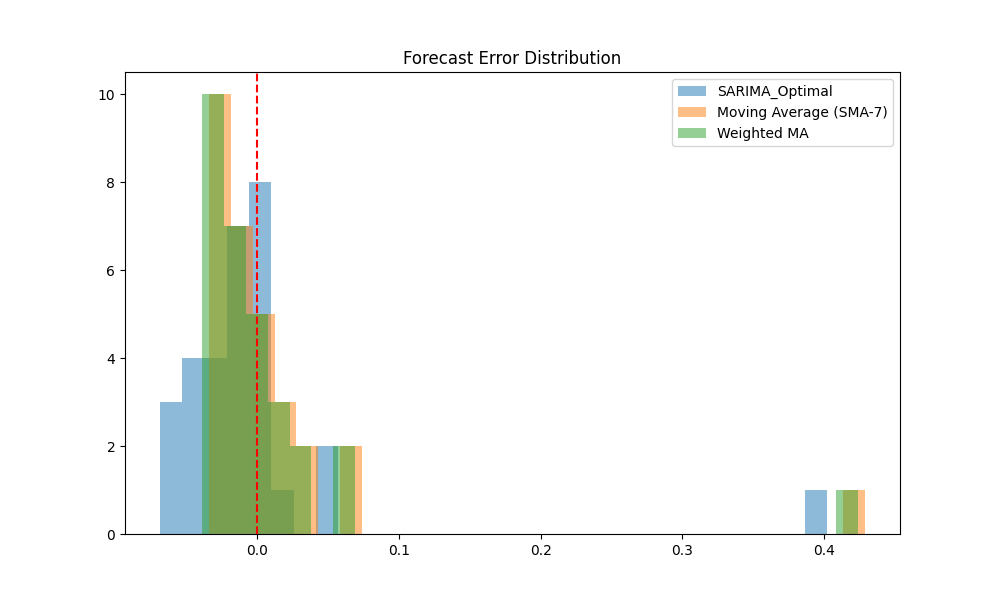
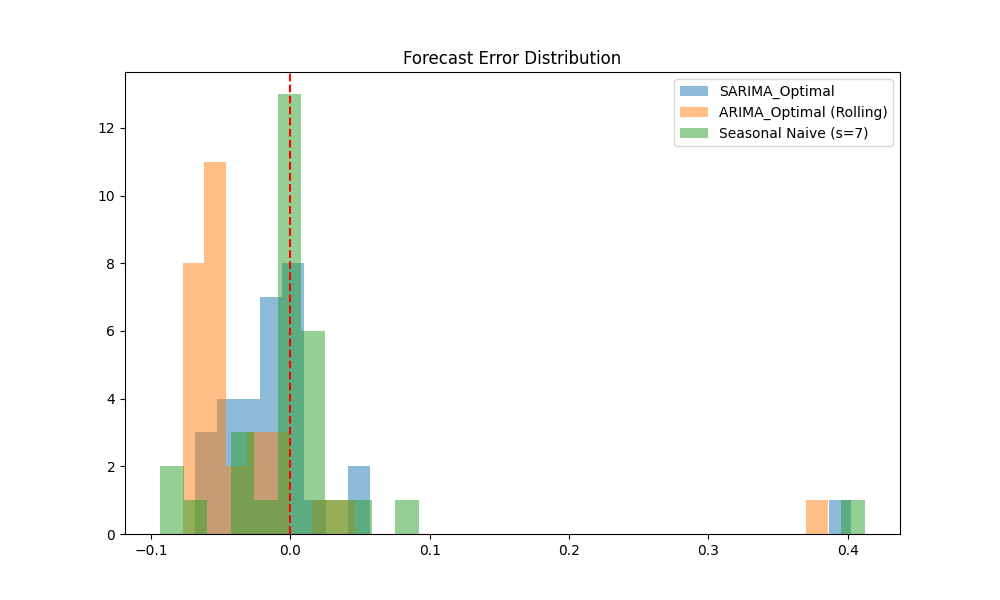
updated models, metrics and cleaned scratch files

diff --git a/stat-models/evaluate_benchmarks.py b/stat-models/evaluate_benchmarks.py
@@ -61,38 +61,68 @@ def main():
     
     print(f"Formatted report saved to {txt_path}")
     
-    # --- VISUALIZATION: Actual vs Top 3 Models ---
     import matplotlib.pyplot as plt
+    if not os.path.exists('scratch/plots'):
+        os.makedirs('scratch/plots')
+
+    # ---------------------------------------------------------
+    # --- VISUALIZATION 1: Basic Models vs Actual ---
+    # ---------------------------------------------------------
     plt.figure(figsize=(15, 7))
-    plt.plot(actual[-50:], label='Actual', color='black', linewidth=2, marker='o') # Last 50 days for clarity
+    plt.plot(actual[-30:], label='Actual', color='black', linewidth=2, marker='o') # Last 50 days for clarity
     
-    # Plot top 3 models
-    top_models = results_df.head(3)['Model'].tolist()
-    colors = ['#1f77b4', '#ff7f0e', '#2ca02c']
+    basic_models = ['Seasonal Naive (s=7)', 'Moving Average (SMA-7)', 'Weighted MA', 'AR(2)', 'MA(2)', 'ARMA(2,2)']
+    colors1 = ['#1f77b4', '#ff7f0e', '#2ca02c', '#d62728', '#9467bd', '#8c564b']
     
-    for i, model_name in enumerate(top_models):
-        forecast = np.array(data[model_name])
-        plt.plot(forecast[-50:], label=model_name, linestyle='--', color=colors[i])
-        
-    plt.title("Product Return Rate Forecasting: Top 3 Models vs Actual (Last 50 Days)")
+    for i, model_name in enumerate(basic_models):
+        if model_name in data:
+            forecast = np.array(data[model_name])
+            plt.plot(forecast[-30:], label=model_name, linestyle='--', color=colors1[i % len(colors1)])
+            
+    plt.title("Product Return Rate Forecasting: Basic Models vs Actual (Last 30 Days)")
+    plt.xlabel("Days in Test Set")
+    plt.ylabel("Return Rate")
+    plt.legend(bbox_to_anchor=(1.05, 1), loc='upper left')
+    plt.grid(True, alpha=0.3)
+    plt.tight_layout()
+    
+    plot1_path = 'scratch/plots/forecast_comparison_basic.png'
+    plt.savefig(plot1_path)
+    plt.close()
+    print(f"Basic Comparison plot saved to {plot1_path}")
+
+    # ---------------------------------------------------------
+    # --- VISUALIZATION 2: Advanced Models (ARIMA/SARIMA) vs Actual ---
+    # ---------------------------------------------------------
+    plt.figure(figsize=(15, 7))
+    plt.plot(actual[-30:], label='Actual', color='black', linewidth=2, marker='o') # Last 30 days for clarity
+    
+    advanced_models = ['ARIMA_Optimal (Rolling)', 'SARIMA_Optimal']
+    colors2 = ['#d62728', '#1f77b4'] # Red and Blue
+    
+    for i, model_name in enumerate(advanced_models):
+        if model_name in data:
+            forecast = np.array(data[model_name])
+            plt.plot(forecast[-30:], label=model_name, linestyle='--', color=colors2[i % len(colors2)])
+            
+    plt.title("Product Return Rate Forecasting: ARIMA & SARIMA vs Actual (Last 30 Days)")
     plt.xlabel("Days in Test Set")
     plt.ylabel("Return Rate")
     plt.legend()
     plt.grid(True, alpha=0.3)
     
-    if not os.path.exists('scratch/plots'):
-        os.makedirs('scratch/plots')
-    
-    plot_path = 'scratch/plots/forecast_comparison_top3.png'
-    plt.savefig(plot_path)
+    plot2_path = 'scratch/plots/forecast_comparison_advanced.png'
+    plt.savefig(plot2_path)
     plt.close()
-    print(f"Comparison plot saved to {plot_path}")
-    
+    print(f"Advanced Comparison plot saved to {plot2_path}")
+
     # --- VISUALIZATION: Error Distribution ---
     plt.figure(figsize=(10, 6))
-    for i, model_name in enumerate(top_models):
-        error = actual - np.array(data[model_name])
-        plt.hist(error, bins=30, alpha=0.5, label=model_name)
+    plot_models = ['SARIMA_Optimal', 'ARIMA_Optimal (Rolling)', 'Seasonal Naive (s=7)']
+    for i, model_name in enumerate(plot_models):
+        if model_name in data:
+            error = actual - np.array(data[model_name])
+            plt.hist(error, bins=30, alpha=0.5, label=model_name)
     plt.axvline(0, color='red', linestyle='--')
     plt.title("Forecast Error Distribution")
     plt.legend()

diff --git a/stat-models/models/ar_ma_processes.py b/stat-models/models/ar_ma_processes.py
@@ -1,21 +1,38 @@
 import pandas as pd
 from statsmodels.tsa.ar_model import AutoReg
 from statsmodels.tsa.arima.model import ARIMA
+import warnings
 
-def run_ar_forecast(train, test_len, lags=2):
-    """Autoregressive (AR) model."""
-    model = AutoReg(train, lags=lags).fit()
-    forecast = model.predict(start=len(train), end=len(train)+test_len-1)
-    return pd.Series(forecast.values)
+def run_ar_forecast(train, test, lags=2):
+    """Autoregressive (AR) model with rolling window."""
+    history = list(train)
+    predictions = []
+    for t in range(len(test)):
+        model = AutoReg(history, lags=lags).fit()
+        predictions.append(model.predict(start=len(history), end=len(history))[0])
+        history.append(test.iloc[t])
+    return pd.Series(predictions, index=test.index)
 
-def run_ma_forecast(train, test_len, order=2):
-    """Moving Average (MA) process (via ARIMA 0,0,q)."""
-    model = ARIMA(train, order=(0, 0, order)).fit()
-    forecast = model.forecast(steps=test_len)
-    return pd.Series(forecast.values)
+def run_ma_forecast(train, test, order=2):
+    """Moving Average (MA) process (via ARIMA 0,0,q) with rolling window."""
+    history = list(train)
+    predictions = []
+    with warnings.catch_warnings():
+        warnings.simplefilter("ignore")
+        for t in range(len(test)):
+            model = ARIMA(history, order=(0, 0, order)).fit()
+            predictions.append(model.forecast(steps=1)[0])
+            history.append(test.iloc[t])
+    return pd.Series(predictions, index=test.index)
 
-def run_arma_forecast(train, test_len, order=(2, 2)):
-    """ARMA model."""
-    model = ARIMA(train, order=(order[0], 0, order[1])).fit()
-    forecast = model.forecast(steps=test_len)
-    return pd.Series(forecast.values)
+def run_arma_forecast(train, test, order=(2, 2)):
+    """ARMA model with rolling window."""
+    history = list(train)
+    predictions = []
+    with warnings.catch_warnings():
+        warnings.simplefilter("ignore")
+        for t in range(len(test)):
+            model = ARIMA(history, order=(order[0], 0, order[1])).fit()
+            predictions.append(model.forecast(steps=1)[0])
+            history.append(test.iloc[t])
+    return pd.Series(predictions, index=test.index)

diff --git a/stat-models/models/integrated_models.py b/stat-models/models/integrated_models.py
@@ -1,12 +1,52 @@
 import pandas as pd
+import numpy as np
 from statsmodels.tsa.arima.model import ARIMA
 from statsmodels.tsa.statespace.sarimax import SARIMAX
+from scipy.stats import norm
 
 def run_arima_forecast(train, test_len, order=(2, 1, 2)):
-    """ARIMA model with dynamic order selection."""
+    """ARIMA model with static multi-step forecast."""
     model = ARIMA(train, order=order).fit()
     forecast = model.forecast(steps=test_len)
     return forecast
+
+def run_rolling_arima_forecast(train, test, order=(2, 1, 2), bias_adjustment=True):
+    """
+    Improved ARIMA with Rolling Forecast, Log-Transformation, and Business-Bias Adjustment.
+    """
+    # 1. Log transform to stabilize variance
+    # Add small constant to avoid log(0)
+    history = list(np.log1p(train.values))
+    predictions = []
+    
+    # Costs: Under=100, Over=50. Optimal quantile = 100/(100+50) = 0.667
+    target_quantile = 100 / (100 + 50)
+    z_score = norm.ppf(target_quantile) 
+    
+    for t in range(len(test)):
+        # Fit model on log data
+        model_fit = ARIMA(history, order=order).fit()
+        
+        # Get point forecast and forecast variance
+        forecast_obj = model_fit.get_forecast(steps=1)
+        yhat_log = forecast_obj.predicted_mean[0]
+        yhat_std = np.sqrt(forecast_obj.var_pred_mean[0])
+        
+        # Apply Quantile Shift (Business-Bias) if requested
+        if bias_adjustment:
+            yhat_log_biased = yhat_log + (z_score * yhat_std)
+        else:
+            yhat_log_biased = yhat_log
+            
+        # Back-transform to original scale
+        yhat = np.expm1(yhat_log_biased)
+        
+        predictions.append(yhat)
+        
+        # Update history with log of actual value
+        history.append(np.log1p(test.iloc[t]))
+        
+    return pd.Series(predictions, index=test.index)
 
 def run_sarima_forecast(train, test_len, order=(1, 1, 1), s_order=(1, 1, 1, 7)):
     """SARIMA model with dynamic seasonal order."""

diff --git a/stat-models/models/moving_averages.py b/stat-models/models/moving_averages.py
@@ -1,13 +1,25 @@
 import pandas as pd
 import numpy as np
 
-def run_sma_forecast(train, test_len, window=7):
-    """Simple Moving Average (SMA) forecast."""
-    sma_val = train.rolling(window).mean().iloc[-1]
-    return pd.Series([sma_val] * test_len)
+def run_sma_forecast(train, test, window=7):
+    """Simple Moving Average (SMA) forecast with rolling window."""
+    history = list(train)
+    predictions = []
+    for t in range(len(test)):
+        sma_val = np.mean(history[-window:])
+        predictions.append(sma_val)
+        history.append(test.iloc[t])
+    return pd.Series(predictions, index=test.index)
 
-def run_wma_forecast(train, test_len, window=7):
-    """Weighted Moving Average (WMA) forecast."""
+def run_wma_forecast(train, test, window=7):
+    """Weighted Moving Average (WMA) forecast with rolling window."""
+    history = list(train)
+    predictions = []
     weights = np.arange(1, window + 1)
-    wma_val = (train.iloc[-window:] * weights).sum() / weights.sum()
-    return pd.Series([wma_val] * test_len)
+    weight_sum = weights.sum()
+    for t in range(len(test)):
+        wma_val = np.sum(np.array(history[-window:]) * weights) / weight_sum
+        predictions.append(wma_val)
+        history.append(test.iloc[t])
+    return pd.Series(predictions, index=test.index)
+

diff --git a/stat-models/models/naive_persistence.py b/stat-models/models/naive_persistence.py
@@ -1,6 +1,17 @@
 import pandas as pd
+import numpy as np
 
-def run_naive_forecast(train, test_len):
-    """Simple persistence model: uses last observed value."""
-    forecast = pd.Series([train.iloc[-1]] * test_len, index=pd.RangeIndex(len(train), len(train)+test_len))
-    return forecast
+def run_naive_forecast(train, test_len, s=7):
+    """
+    Seasonal Naive model: repeats the last observed seasonal cycle.
+    Default s=7 for weekly patterns in daily data.
+    """
+    last_season = train.iloc[-s:].values
+    # Repeat the last season to cover the test length
+    forecast = np.tile(last_season, int(np.ceil(test_len / s)))[:test_len]
+    
+    forecast_series = pd.Series(
+        forecast, 
+        index=pd.RangeIndex(len(train), len(train) + test_len)
+    )
+    return forecast_series

diff --git a/stat-models/run_experiment.py b/stat-models/run_experiment.py
@@ -7,7 +7,7 @@ from core.data_loader import load_and_split_data
 from models.naive_persistence import run_naive_forecast
 from models.moving_averages import run_sma_forecast, run_wma_forecast
 from models.ar_ma_processes import run_ar_forecast, run_ma_forecast, run_arma_forecast
-from models.integrated_models import run_arima_forecast, run_sarima_forecast
+from models.integrated_models import run_arima_forecast, run_sarima_forecast, run_rolling_arima_forecast
 from core.diagnostics import check_stationarity, plot_identification, residual_analysis
 from core.selection import find_best_arima, find_best_sarima
 from statsmodels.tsa.statespace.sarimax import SARIMAX
@@ -34,19 +34,20 @@ def main():
     plot_identification(work_series, "Stationary_Series")
     
     # 3. Model Selection via AIC (Workflow Step 3)
-    best_arima_order = find_best_arima(train, max_p=3, max_q=3, d=d)
+    best_arima_order = find_best_arima(train, max_p=5, max_q=5, d=d)
     best_sarima_params = find_best_sarima(train, max_p=2, max_q=2, d=d, D=1, s=7)
     
     # 4. Running Models
+    print("\nRunning Models (This may take a moment for Rolling ARIMA)...")
     forecasts = {
         'Actual': test.values.tolist(),
-        'Naive Baseline': run_naive_forecast(train, test_len).tolist(),
-        'Moving Average (SMA-7)': run_sma_forecast(train, test_len).tolist(),
-        'Weighted MA': run_wma_forecast(train, test_len).tolist(),
-        'AR(2)': run_ar_forecast(train, test_len).tolist(),
-        'MA(2)': run_ma_forecast(train, test_len).tolist(),
-        'ARMA(2,2)': run_arma_forecast(train, test_len).tolist(),
-        'ARIMA_Optimal': run_arima_forecast(train, test_len, order=best_arima_order).tolist(),
+        'Seasonal Naive (s=7)': run_naive_forecast(train, test_len, s=7).tolist(),
+        'Moving Average (SMA-7)': run_sma_forecast(train, test).tolist(),
+        'Weighted MA': run_wma_forecast(train, test).tolist(),
+        'AR(2)': run_ar_forecast(train, test).tolist(),
+        'MA(2)': run_ma_forecast(train, test).tolist(),
+        'ARMA(2,2)': run_arma_forecast(train, test).tolist(),
+        'ARIMA_Optimal (Rolling)': run_rolling_arima_forecast(train, test, order=best_arima_order).tolist(),
         'SARIMA_Optimal': run_sarima_forecast(train, test_len, order=best_sarima_params[0], s_order=best_sarima_params[1]).tolist()
     }
     

diff --git a/stat-models/core/metrics.py b/stat-models/core/metrics.py
@@ -12,11 +12,16 @@ def calculate_omc(y_true, y_pred):
     return under_cost + over_cost
 
 def calculate_mape(y_true, y_pred):
-    """Mean Absolute Percentage Error"""
+    """
+    Weighted Mean Absolute Percentage Error (WMAPE/WAPE).
+    More robust for return rate forecasting where actuals can be zero or very small.
+    Formula: (sum|y_true - y_pred| / sum|y_true|) * 100
+    """
     y_true, y_pred = np.array(y_true), np.array(y_pred)
-    # Avoid division by zero by adding a small epsilon or filtering
-    mask = y_true != 0
-    return np.mean(np.abs((y_true[mask] - y_pred[mask]) / y_true[mask])) * 100
+    sum_actual = np.sum(np.abs(y_true))
+    if sum_actual == 0:
+        return 0.0 if np.sum(np.abs(y_pred)) == 0 else np.inf
+    return (np.sum(np.abs(y_true - y_pred)) / sum_actual) * 100
 
 def calculate_nmse(y_true, y_pred):
     """Normalized Mean Squared Error (normalized by variance of actuals)"""

diff --git a/stat-models/generate_business_metrics.py b/stat-models/generate_business_metrics.py
@@ -13,12 +13,13 @@ def calculate_business_impact(csv_path='scratch/benchmark_comparison.csv', outpu
     # Load results
     df = pd.read_csv(csv_path)
     
-    # Identify Naive Baseline
-    if 'Naive Baseline' not in df['Model'].values:
-        print("Error: 'Naive Baseline' not found in results for comparison.")
+    # Identify Baseline (using Seasonal Naive as the new standard)
+    baseline_model = 'Seasonal Naive (s=7)'
+    if baseline_model not in df['Model'].values:
+        print(f"Error: '{baseline_model}' not found in results for comparison.")
         return
         
-    baseline_omc = df[df['Model'] == 'Naive Baseline']['OMC (Cost)'].values[0]
+    baseline_omc = df[df['Model'] == baseline_model]['OMC (Cost)'].values[0]
     
     # Constants
     weeks = test_days / 7

diff --git a/stat-models/core/selection.py b/stat-models/core/selection.py
@@ -6,7 +6,7 @@ import warnings
 
 warnings.filterwarnings('ignore')
 
-def find_best_arima(train, max_p=3, max_q=3, d=None):
+def find_best_arima(train, max_p=5, max_q=5, d=None):
     """Grid search for best ARIMA parameters using AIC."""
     print("\n--- Model Selection: ARIMA ---")
     if d is None: